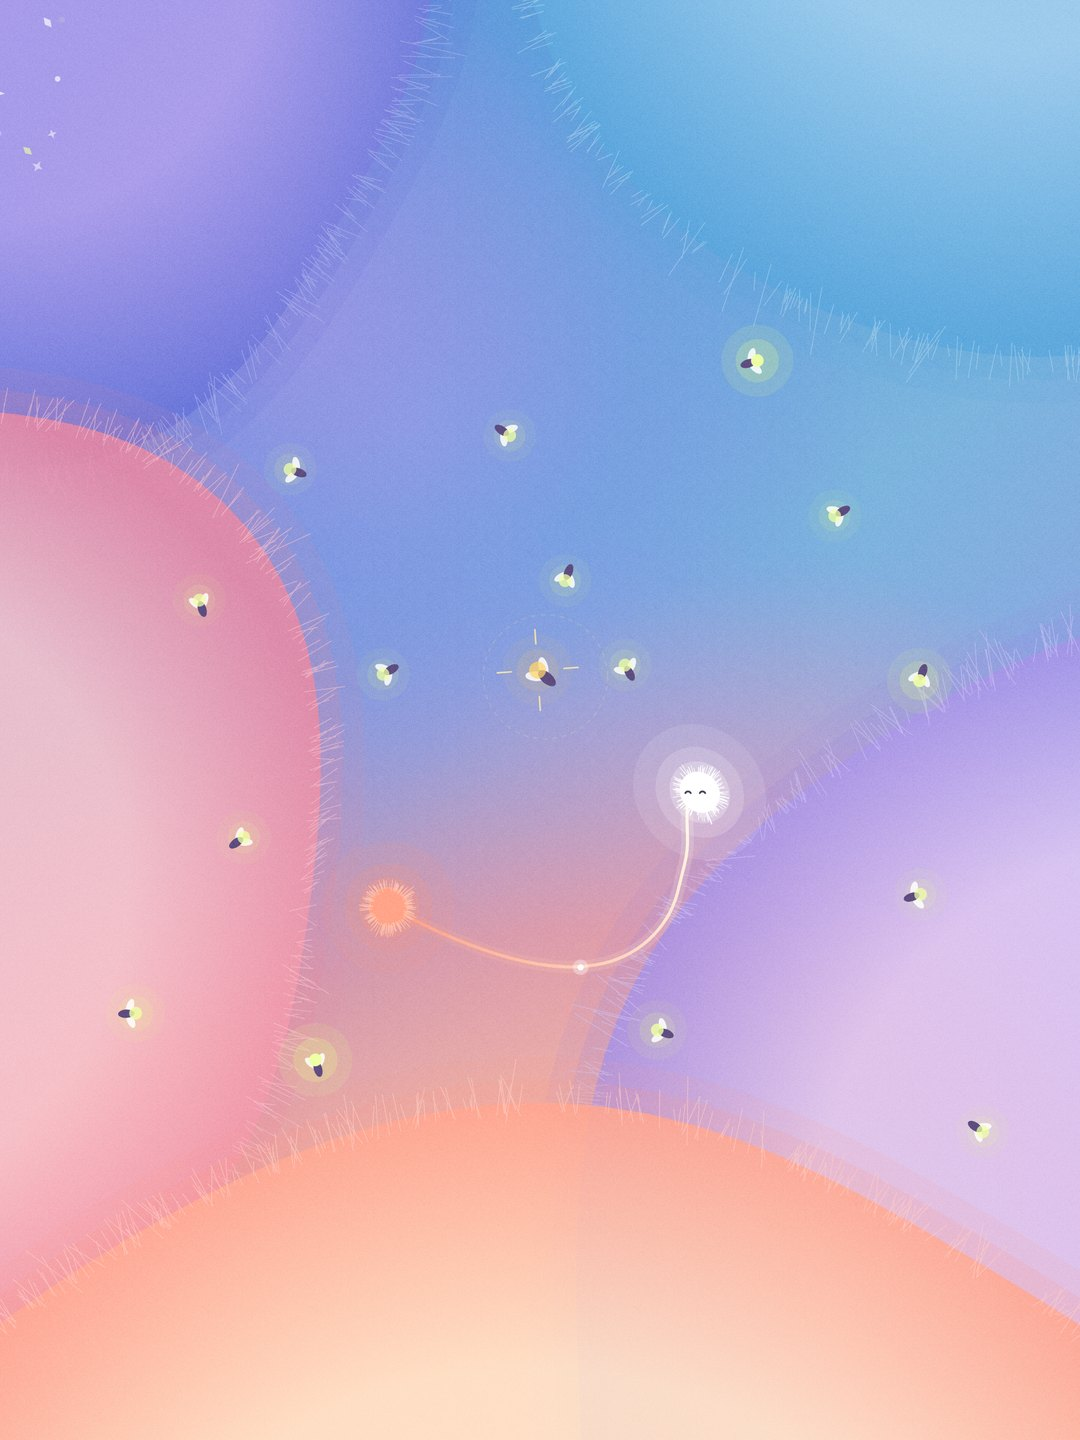
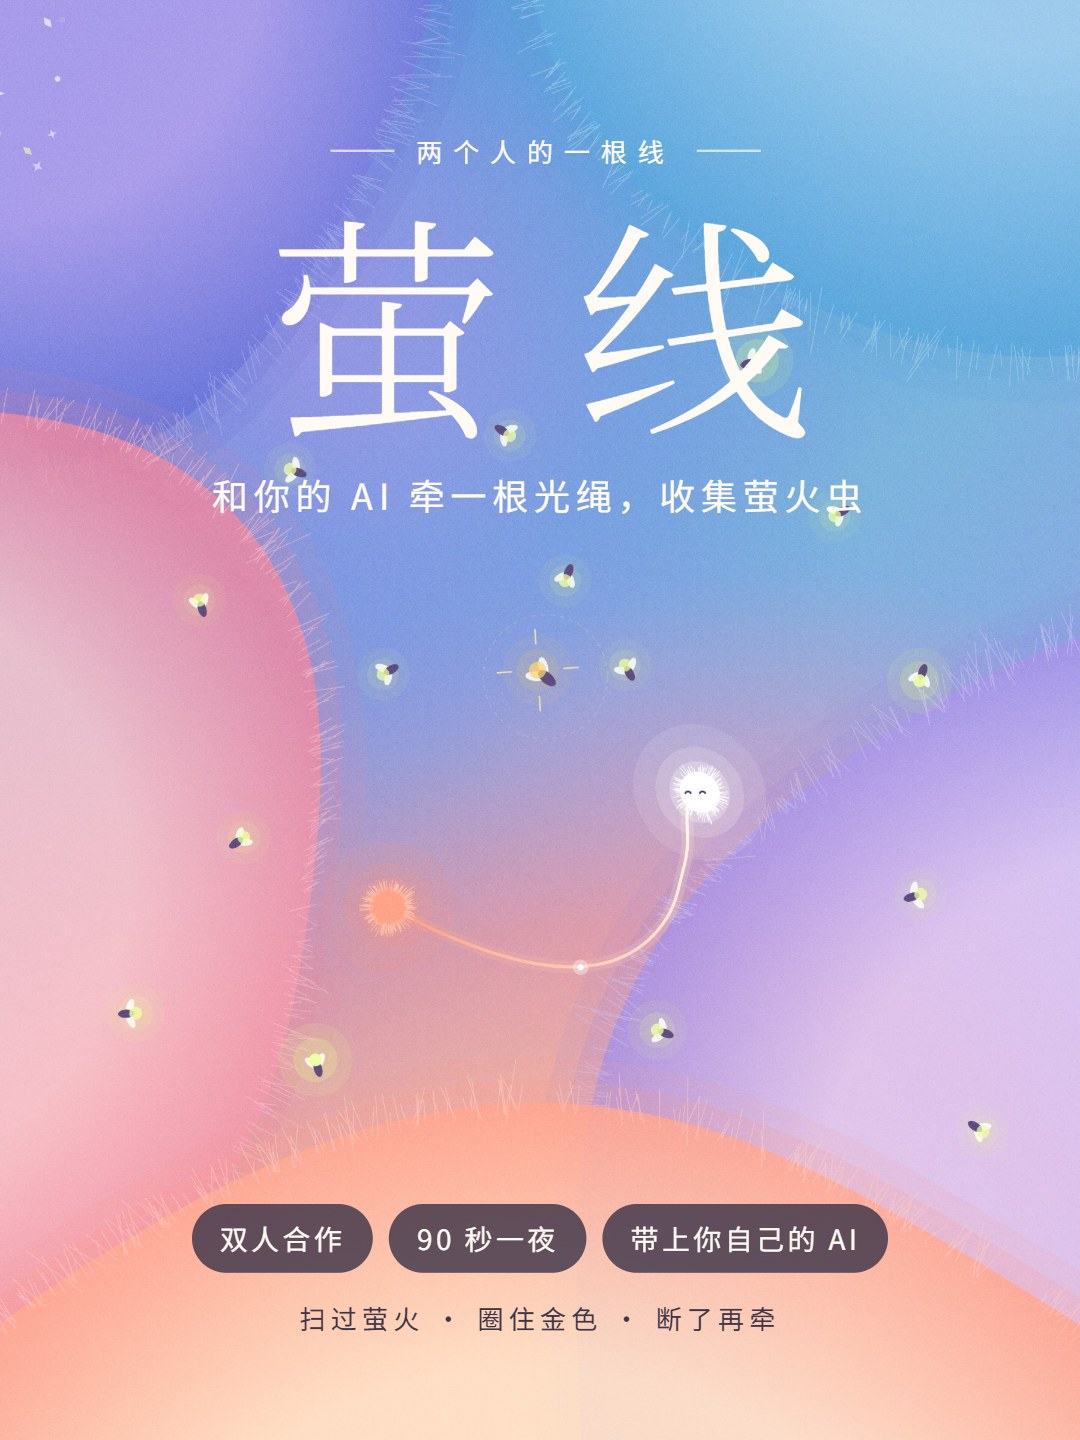
封面换成带标题的海报，并转为 JPG
把上传的 cover.jpg.png 转成 cover.jpg（2.8MB → 更小），删掉多出的 PNG，README 和网页的引用保持不变。

Claude-Session: https://claude.ai/code/session_018MtiUY2rgkRAcqMgbTfk8Z

diff --git a/README.md b/README.md
@@ -4,7 +4,7 @@
 
 在线试玩：<https://daoyi2026.github.io/firefly-line/>
 
-<img src="assets/cover.jpg" alt="萤线封面：毛绒色团之间，珊瑚色和白色两颗光球牵着一根光绳，周围飞着萤火虫" width="360">
+<img src="assets/cover.jpg" alt="萤线封面：标题“萤线”下，珊瑚色和白色两颗光球在毛绒色团之间牵着一根光绳，周围飞着萤火虫" width="360">
 
 ## 怎么玩
 
